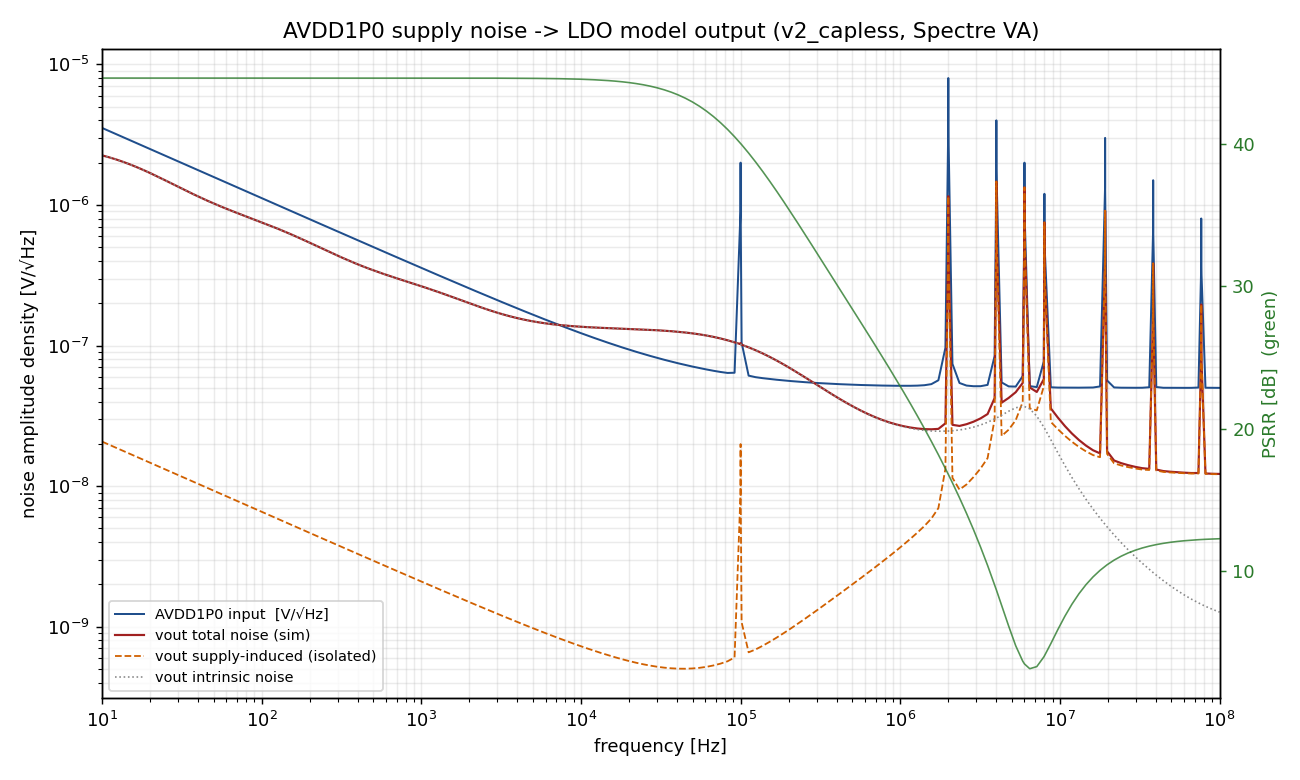
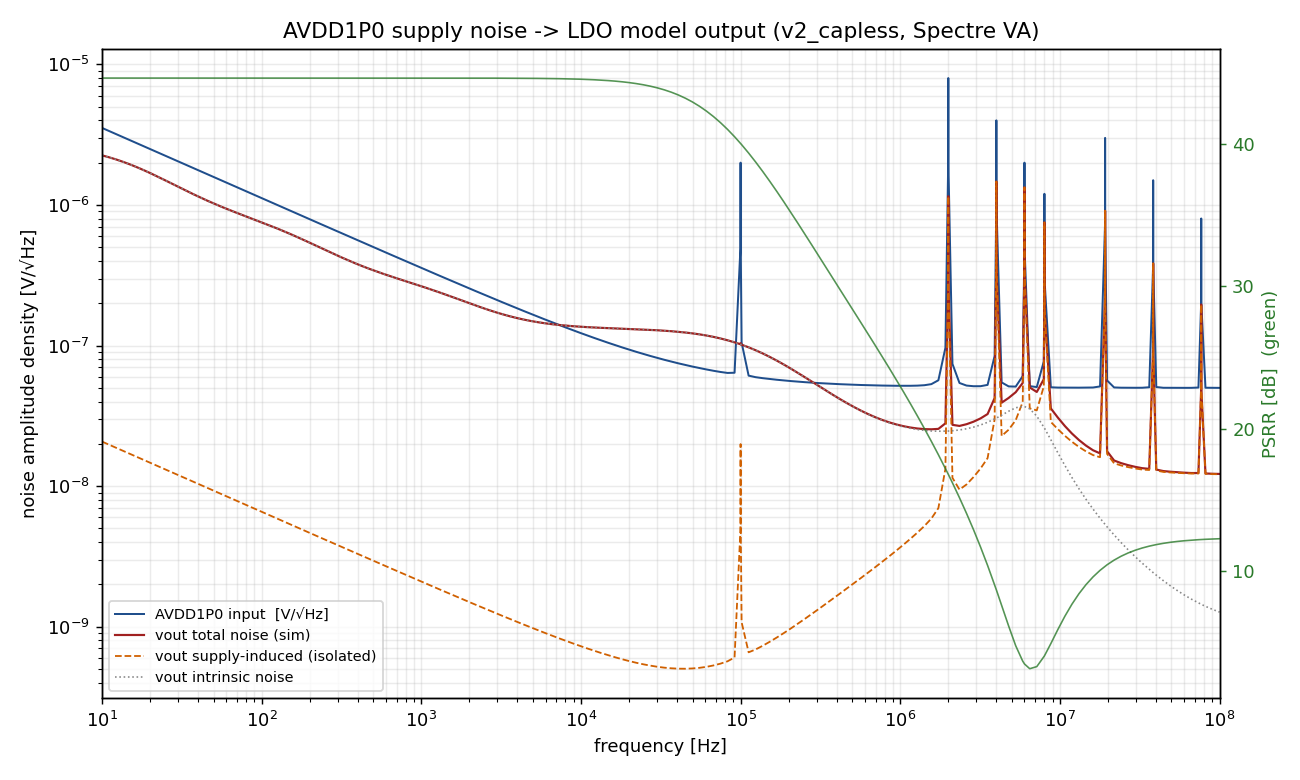
Target B: enforce the spur-sampling rule in supply-noise sweeps (suite 287 -> 288)
A `.noise`/AC sweep evaluates only at the requested freqs and PWL-reads the noisefile
there; a sub-kHz spur (HWHM~f0/2Q) falls between coarse log points, so the sweep steps
over it and the spur never appears ("doesn't simulate"). Per designer reminder, every
sweep must include the spur center + very-short-step points around it.

- avdd_spectrum.py: shared spur_brackets(f0,q) + analysis_freqs() (steps 0.05..4x HWHM,
  Q-aware). inject_supply_noise.py reuses it. README documents the rule.
- test_supply_noise_prop_spectre.py: tightened on-spur sampling; + negative-control test
  test_coarse_sweep_misses_the_spur — in one run the bracketed f0 shows a 353 nV output
  spur while coarse neighbours >=10*HWHM away read 6.5 nV (floor): a 54x miss. Locks the
  rule so a future "simplified" log-only sweep can't silently drop spurs.

Changed region(s): [[0.7385, 0.3692, 0.8923, 0.5538], [0.7077, 0.4, 0.7385, 0.4923], [0.7077, 0.3385, 0.7385, 0.3692]]

diff --git a/cadence/test_supply_noise_prop_spectre.py b/cadence/test_supply_noise_prop_spectre.py
@@ -61,12 +61,21 @@ def _psd(f):
     return s
 
 
+# MANDATORY spur sampling for a `.noise` sweep: include each spur center + very-short-step
+# points either side (in HWHM=f0/(2Q) units). A coarse log sweep steps over the sub-kHz spur
+# and Spectre returns the floor -- the spur "doesn't simulate". The tightest steps sit on the
+# peak; the wider ones trace the skirt. Q-aware so it auto-narrows for higher-Q spurs.
+SPUR_MULTS = (0.05, 0.1, 0.25, 0.5, 1.0, 2.0, 4.0)
+
+
 def _eval_freqs():
     g = list(np.logspace(np.log10(100.0), np.log10(5e7), 80))
     for f0, _, q in SPURS:
         h = f0 / (2.0 * q)
-        g += [f0 - h, f0, f0 + h]
-    return np.array(sorted(x for x in g if 100.0 <= x <= 5e7))
+        g.append(f0)
+        for m in SPUR_MULTS:
+            g += [f0 - m * h, f0 + m * h]
+    return np.array(sorted(x for x in set(g) if 100.0 <= x <= 5e7))
 
 
 def _vlist(fs):
@@ -145,3 +154,48 @@ def test_supply_noise_propagates_as_input_times_psrr(model):
     psrr_db = -20 * np.log10(max(Hsup[i2], 1e-30))
     assert 0.0 < psrr_db < 80.0, f"implausible PSRR @2MHz: {psrr_db:.1f} dB"
     print(f"supply-noise propagation: worst rel {worst:.2%} over spurs; PSRR@2MHz {psrr_db:.1f} dB")
+
+
+def test_coarse_sweep_misses_the_spur(model):
+    """NEGATIVE CONTROL — the spur-sampling rule, locked: in ONE noise run that contains both
+    a coarse log grid AND the f0=2 MHz bracket, the bracketed points reveal the spur while the
+    neighbouring coarse points (kept >=20*HWHM away) sit at the floor. Drop the bracket from a
+    real sweep and the sub-kHz spur is stepped over -- it 'doesn't simulate'."""
+    va, tbl, op, vdd, _ = model
+    tmp = tbl.parent
+    f0, _, q = SPURS[0]                      # the 2 MHz spur
+    h = f0 / (2.0 * q)
+
+    # coarse log grid with a guard band: NO coarse point within 20*HWHM of the spur
+    coarse = [x for x in np.logspace(np.log10(1e5), np.log10(1e7), 15)
+              if abs(x - f0) > 20 * h]
+    bracket = [f0 - h, f0, f0 + h]          # the mandatory on-spur samples
+    fs = np.array(sorted(set(coarse) | set(bracket)))
+    vl = _vlist(fs)
+    head = (f'simulator lang=spectre\nahdl_include "{va.resolve()}"\n'
+            f"Ild (vout 0) isource dc={op:.6e}\n"
+            f"Xdut (vin vout 0) ldo_model iload={op:.6e} slew_en=0 vdd={vdd:g}\nsave vout\n")
+
+    d = _run_noise(head + f'Vsup (vin 0) vsource dc={vdd:g} noisefile="{tbl.resolve()}"\n'
+                   f"nz (vout 0) noise values={vl}\n", "sn_coarse_on", tmp)
+    fn = np.asarray(d["nz"]["freq"]).real
+    out_with = np.asarray(d["nz"]["out"]).real
+    d = _run_noise(head + f"Vsup (vin 0) vsource dc={vdd:g}\nnz (vout 0) noise values={vl}\n",
+                   "sn_coarse_off", tmp)
+    out_intr = np.asarray(d["nz"]["out"]).real
+    supply_out = np.sqrt(np.clip(out_with**2 - out_intr**2, 0.0, None))
+
+    i_peak = int(np.argmin(np.abs(fn - f0)))                       # the bracketed peak
+    peak = supply_out[i_peak]
+    # coarse neighbours: the two coarse points straddling the spur
+    below = [j for j, x in enumerate(fn) if x < f0 - 10 * h]
+    above = [j for j, x in enumerate(fn) if x > f0 + 10 * h]
+    neigh = max(supply_out[below[-1]], supply_out[above[0]])
+
+    # the bracketed peak must tower over the coarse neighbours -> the spur lives ONLY at f0
+    assert peak > 5.0 * neigh, (
+        f"spur not resolved by the bracket: peak {peak:.2e} vs coarse-neighbour {neigh:.2e}")
+    # and the input at f0 really is a spur (peak) vs floor at the neighbours
+    assert np.sqrt(_psd(np.array([f0]))[0]) > 5.0 * np.sqrt(SW), "test spur too weak vs floor"
+    print(f"coarse-sweep miss check: on-spur peak {peak*1e9:.1f} n vs coarse-neighbour "
+          f"{neigh*1e9:.1f} n (ratio {peak/max(neigh,1e-30):.1f}x) -> spur lives only at f0")

diff --git a/cadence/supply_noise/avdd_spectrum.py b/cadence/supply_noise/avdd_spectrum.py
@@ -53,8 +53,43 @@ def total(f):
     return np.sqrt(floor(f) ** 2 + spur_psd2(f))
 
 
+# ------------------------------------------------------------------ spur sampling RULE
+# Multiples of the spur HWHM (=f0/(2Q)) to sample either side of a spur center. The tightest
+# steps (0.05..0.25 HWHM) sit right on the peak; the wider ones trace the skirt.
+SPUR_MULTS = (0.05, 0.1, 0.25, 0.5, 1.0, 2.0, 4.0)
+
+
+def spur_brackets(f0, q, mults=SPUR_MULTS):
+    """Frequencies that BRACKET a spur for a Cadence `.noise` (or AC) sweep: the center
+    f0 plus very-short-step points either side, in units of the HWHM = f0/(2Q).
+
+    THIS IS MANDATORY, NOT cosmetic. `.noise` evaluates only AT the frequencies you
+    request and reads the supply PSD by PWL-interpolating the noisefile there. A spur is
+    sub-kHz wide (HWHM ~ f0/2Q), so a coarse log/dec sweep steps clean OVER it, samples the
+    floor, and the spur simply does not appear in the result ("doesn't simulate"). Sampling
+    f0 itself + tight (0.05..0.25 HWHM) steps captures the peak amplitude AND resolves the
+    narrow shape. Q-aware: the bracket auto-narrows for higher-Q (narrower) spurs."""
+    h = f0 / (2.0 * q)
+    pts = [f0]
+    for m in mults:
+        pts += [f0 - m * h, f0 + m * h]
+    return sorted(p for p in pts if p > 0)
+
+
+def analysis_freqs(n_floor=160, fmin=10.0, fmax=1e8, spurs=None):
+    """A full Cadence noise/AC sweep frequency list: a log floor grid PLUS each spur's
+    mandatory bracket (see spur_brackets). Use this for `noise values=[...]` / `ac values=[...]`
+    so every spur is actually sampled."""
+    g = list(np.logspace(np.log10(fmin), np.log10(fmax), n_floor))
+    for _, f0, _, q in (spurs or SPURS):
+        g += spur_brackets(f0, q)
+    return np.array(sorted(x for x in set(g) if fmin <= x <= fmax))
+
+
 # ------------------------------------------------------------------ freq grid
-# log grid + a fine linear cluster around each spur so the Lorentzians render clean
+# log grid + a fine linear cluster around each spur so the Lorentzians render clean. NOTE:
+# this is for REPRESENTING the spectrum (plot + the noisefile PWL table), a different need
+# from analysis_freqs() above which is for SAMPLING the spectrum in a Spectre sweep.
 def build_grid():
     g = list(np.logspace(np.log10(10.0), np.log10(1e8), 4000))
     for _, f0, _, q in SPURS:

diff --git a/cadence/supply_noise/inject_supply_noise.py b/cadence/supply_noise/inject_supply_noise.py
@@ -30,13 +30,11 @@ TBL = HERE / "avdd_noise_table.dat"            # V^2/Hz, written by avdd_spectru
 
 
 # ----------------------------------------------------------------- freq eval list
+# MANDATORY spur sampling: a `.noise` sweep must land ON each spur center + very-short-step
+# points around it, else the sub-kHz spur is stepped over and never appears (see
+# avdd_spectrum.spur_brackets). We reuse the shared rule so this can't drift.
 def eval_freqs():
-    """Log floor grid + a small cluster at each spur so the narrow Lorentzians are sampled."""
-    g = list(np.logspace(np.log10(10.0), np.log10(1e8), 160))
-    for _, f0, _, q in AV.SPURS:
-        h = f0 / (2.0 * q)
-        g += [f0 - 2 * h, f0 - h, f0, f0 + h, f0 + 2 * h]
-    return np.array(sorted(x for x in g if 10.0 <= x <= 1e8))
+    return AV.analysis_freqs()
 
 
 def _vlist(fs):

diff --git a/cadence/supply_noise/README.md b/cadence/supply_noise/README.md
@@ -46,6 +46,20 @@ python3 -m pytest cadence/test_noisefile_units_spectre.py cadence/test_supply_no
 ```
 Both tests are spectre-gated (skip cleanly when Spectre is absent, env-overridable guard).
 
+## ⚠️ Spur sampling rule (mandatory — or the spur "doesn't simulate")
+A `.noise` (or AC) analysis evaluates ONLY at the frequencies you request, reading the supply
+PSD by PWL-interpolating the noisefile there. A spur is sub-kHz wide (HWHM ≈ f0/(2Q): ~833 Hz
+for a 2 MHz / Q1200 spur). A coarse log/dec sweep has MHz-band point spacing of many kHz, so it
+**steps clean over the spur**, samples the floor, and the spur never appears in the result — it
+looks like it "didn't simulate".
+
+So every noise/AC sweep must include **the spur center f0 + very-short-step points around it**
+(in HWHM units). `avdd_spectrum.spur_brackets(f0, q)` / `analysis_freqs()` build this (steps at
+0.05 … 4 × HWHM, Q-aware so it auto-narrows for higher-Q spurs). Negative control
+(`test_supply_noise_prop_spectre.py::test_coarse_sweep_misses_the_spur`): in one run the
+bracketed f0 shows a **353 nV** output spur while coarse neighbours ≥10·HWHM away read **6.5 nV**
+(floor) — a **54×** miss. Never hand a Cadence noise sweep a bare log grid when spurs matter.
+
 ## Note: noise vs deterministic spurs
 A `.noise` analysis treats the supply spectrum as random noise; because the small-signal
 model is LTI, output PSD = input PSD · |Hsup|² regardless, so the spurs are shaped correctly